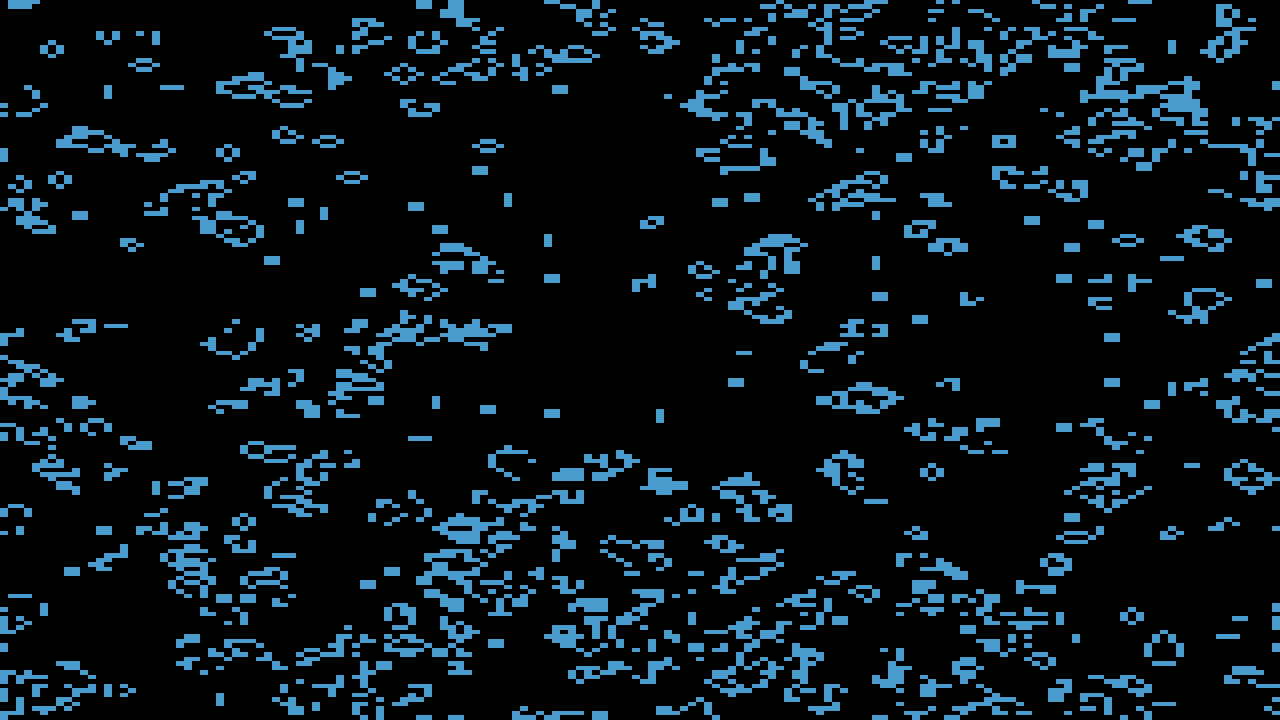
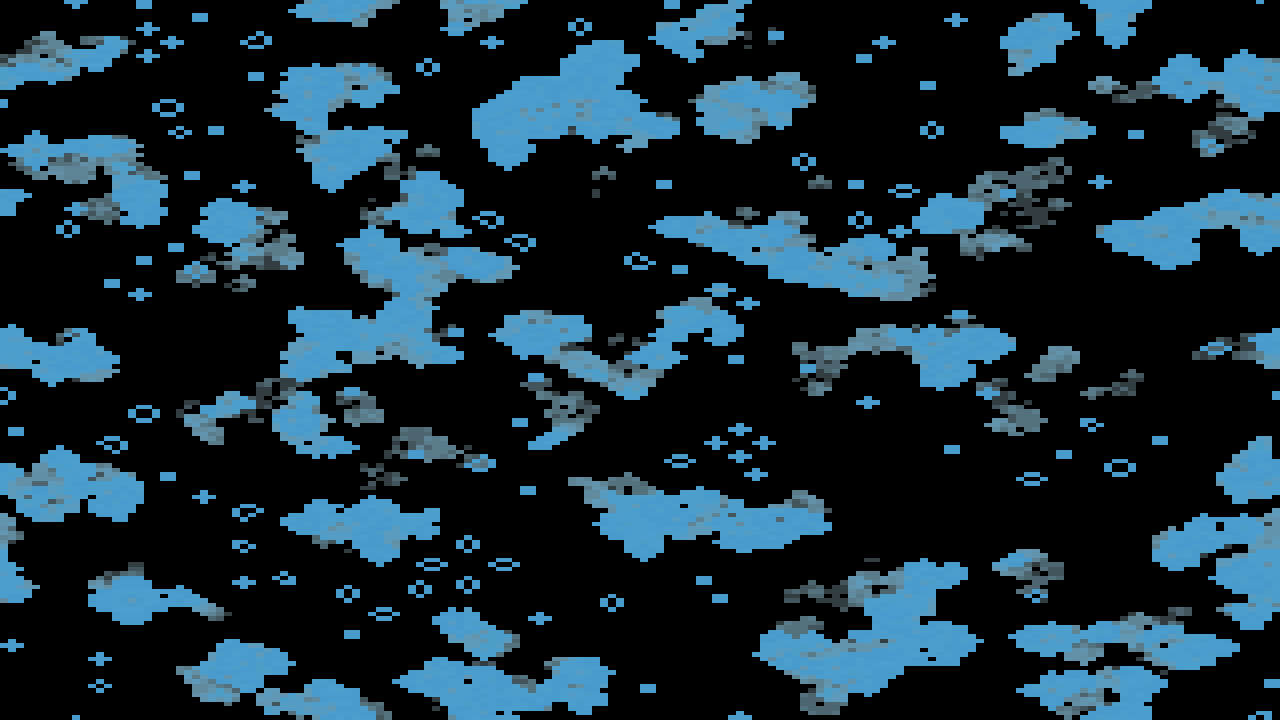
docs: the cellular system in the grammar reference, the guide and the on-device sweep
docs/presets.md gains the [cellular] table - its three keys, what the
grid being content means, the seed, step_rate, reseed and the wake, the
three families with the parameters each reads, the life_like rule as two
bitmasks with Conway written out as birth = 8, survive = 12, and both
tier caps - and a cellular row in the system table.

The guide gets one picture per family from teaching presets under
docs/examples/cellular/, with docs-shots manifest entries for the two new
ones. docs/on-device-validation.md gains the Floor and Rich caps'
measurements and a look pass over the three families.

Plan 0164 Phase 6.

diff --git a/docs/presets.md b/docs/presets.md
@@ -123,6 +123,8 @@ sample density),
 summarised [below](#the-path-table)),
 `[field]` (which closed-form world the analytic field draws, and for escape time
 its map and orbit trap — [below](#the-field-table)),
+`[cellular]` (which automaton the cellular system runs, on how large a grid, and
+whether its edges wrap — [below](#the-cellular-table)),
 `[spectrum]` (the readout's element count, layout and per-element easing —
 summarised [below](#the-spectrum-table)), `[feedback]` (how an accumulation reads
 its own past — [below](#the-feedback-table)), `[smoothing]` (per-parameter
@@ -175,6 +177,7 @@ that table is maintained alongside the presets and is the authoritative list.
 | `warp_mesh` | The previous frame, resampled through a grid with **one transform per vertex** — the only system that draws nothing of its own. |
 | `shape_collage` | Flat opaque elements on their own off-white paper, composited in painter order — the only system in which one object is genuinely *in front of* another, and the only one that draws a graphic rather than light. |
 | `analytic_field` | A fullscreen closed-form function of position from one of two families — the Chladni plate's nodal lines, or an escape-time Julia or Mandelbrot set with optional orbit traps ([below](#the-field-table)). |
+| `cellular` | A discrete cellular automaton on a grid of cells, from one of three families — Conway's Life and every birth/survival rule, Larger than Life's wide neighbourhoods, or the cyclic automaton's spirals — painted with the history of each cell ([below](#the-cellular-table)). |
 
 **There is deliberately no per-system preset count here.** A count re-drifts every time
 a preset is added and nothing fails when it does. `presets/` is the list; `ls presets/*.toml`
@@ -357,6 +360,117 @@ the point.
 
 The range that reads for each parameter, and the family it is inert on, is printed in the
 `analytic_field` table of [`presets/README.md`](../presets/README.md).
+
+### The `[cellular]` table
+
+A `cellular` preset runs a discrete cellular automaton: a square grid of cells, each generation
+every cell deciding its next state from its neighbours'. `[cellular]` picks which automaton, on how
+large a grid:
+
+```toml
+system = "cellular"
+
+[cellular]
+family = "life_like"   # "life_like" (the default), "larger_than_life" or "cyclic"
+grid   = 256           # cells per side, 16..=1024; the default is 256
+wrap   = true          # a torus (the default); false makes every cell past the border dead
+```
+
+All three keys are read once, at load, and are **not bindable**. An unknown family, or a grid
+outside `16..=1024`, is a load error. A preset with no `[cellular]` table runs `life_like` on a
+256-cell torus.
+
+**`grid` is content, not resolution.** A pattern is a fixed number of cells — a glider is five —
+so the grid decides how large every pattern looks: double it and every glider draws at half the
+size. The grid never follows the window, and it is stretched over the frame as it is, so on a wide
+window a cell is wider than it is tall.
+
+**Every cell is drawn from the seed.** The starting field, and every disc a `reseed` refills, is
+hashed from the preset's `[generator] seed` — never from a clock — so the same preset driven by the
+same music runs the same history. `seed = "random"` does **not** vary it: the automaton always uses
+the preset's declared number (`0` when it declared `"random"`).
+
+Four parameters read the same on every family:
+
+- **`step_rate`** is **generations per second**, not per frame, so the automaton runs at the same
+  speed at 30 fps and at 144. Bound to audio it speeds up and slows down with the music — and
+  because an automaton's history depends on every step before it, two runs at different rates
+  diverge for good.
+- **`reseed`** refills **one disc** of the grid (a fifth of its side in radius, at a position drawn
+  from the seed) with fresh cells, **once per rise past 0.5** — held high, it refills once, not every
+  frame. `reseed = "beat"` puts a disc on every beat; routed through a
+  [`[latch]`](#the-latch-table--arm-on-one-thing-fire-on-another) it fires on a condition of its own.
+- **`trail`** and **`age_tint`** paint history. The grid remembers, for every cell, how many
+  generations since it last changed; a cell that has just died glows and fades out over `trail`
+  generations, sliding `age_tint` of the way along the palette as it goes. `trail = "0"` draws only
+  the live cells — a binary checkerboard, which is what a raw automaton looks like and rarely what a
+  preset wants. Both are inert on `cyclic`, which has no dead cells.
+
+The three families, following
+[ADR-0180](adrs/0180-a-mathematical-world-joins-a-system-as-a-family-and-a-structural-parameter-is-held.md) —
+every parameter in the last two columns is read by **one family only** and does nothing on the
+others:
+
+| `family` | The rule | Structural | Modal |
+|---|---|---|---|
+| `life_like` | A dead cell with `k` live neighbours among its eight is born if bit `k` of `birth` is set; a live one survives if bit `k` of `survive` is | `birth`, `survive` | — |
+| `larger_than_life` | The same, over a square of side `2 × radius + 1`, with birth and survival as ranges of how full that square is | `radius` | `birth_lo`, `birth_hi`, `survive_lo`, `survive_hi` |
+| `cyclic` | Each cell holds one of `states` colours and advances to the next one round the cycle when at least `threshold` of its eight neighbours already hold it | `states`, `threshold` | — |
+
+#### `life_like`: a rule is two bitmasks
+
+A rule in Life's space is written `B…/S…`: the neighbour counts that bring a dead cell to life, and
+the counts that keep a live one alive. `birth` and `survive` are those two lists as **bitmasks over
+the counts 0 to 8** — add `2^k` for every count `k` in the list:
+
+| Rule | `B` list | `birth` | `S` list | `survive` |
+|---|---|---|---|---|
+| **Conway's Life, `B3/S23`** | 3 | `8` (= 2³) | 2, 3 | `12` (= 2² + 2³) |
+| HighLife, `B36/S23` | 3, 6 | `72` (= 8 + 64) | 2, 3 | `12` |
+| Seeds, `B2/S` | 2 | `4` | none | `0` |
+| Day & Night, `B3678/S34678` | 3, 6, 7, 8 | `456` | 3, 4, 6, 7, 8 | `472` |
+
+So **Conway's Life is `birth = "8"`, `survive = "12"`** — the defaults. Both are whole numbers
+from `0` to `511`, rounded before the automaton sees them.
+
+#### `larger_than_life`: a rule is two ranges over a wider square
+
+`radius` sets the square each cell reads: side `2 × radius + 1`, the cell itself left out, so
+radius 5 reads 120 neighbours. `birth_lo`..`birth_hi` and `survive_lo`..`survive_hi` are **fractions
+of that square** that must be live, inclusive at both ends — so a rule keeps its meaning when you
+change the radius. At radius 1 with fractions that land on whole counts this *is* `life_like`:
+Conway is `birth_lo = birth_hi = "0.375"` (3 of 8) and `survive_lo = "0.25"`, `survive_hi = "0.375"`.
+
+Above radius 1 the rules grow blobs and bugs that keep travelling where a radius-1 rule settles
+into still lifes. The defaults — radius 5, births at `0.28`..`0.385`, survival at `0.26`..`0.47` —
+are one such rule, and a sensitive one: a single neighbour count off either end of a range can be
+the difference between a field that keeps moving and one that freezes.
+
+#### `cyclic`: a rule is a cycle
+
+Every cell is one of `states` colours, and advances to the next one round the cycle when at least
+`threshold` of its eight neighbours already hold it. From noise this organizes, within a few
+hundred generations, into **interlocking rotating spirals**; the defaults — 3 colours, threshold 3 —
+get there fastest. There are no dead cells: every cell is lit, at palette position
+`state / states`, so the cycle is laid round the palette once and a spiral's arms are the palette in
+order. `hue` rotates it, as on every system.
+
+#### Holding a rule, and the quality tier
+
+Every structural parameter — `birth`, `survive`, `radius`, `states`, `threshold` — is rounded to a
+whole number, and bound to audio it re-picks the rule on every frame. Bind it through
+[`[hold]`](#the-hold-table--re-sample-on-a-musical-edge-hold-in-between) so it changes on the beat or
+the bar instead. Stepping `states` down is safe: a cell holding a colour past the new cycle is read
+round it and written back inside it on the next generation.
+
+**`grid` and `radius` are capped by the quality tier**, because both change what is drawn: the
+Floor tier allows a 512-cell grid and radius 6, the Rich tier 1024 and 10. A preset asking within
+the Floor caps runs identically on both. One asking for more runs at the cap and **says so** — the
+standalone prints what was asked and what it runs at, the same way it reports an iteration cap or a
+tier demotion. Author against the Floor caps.
+
+The range that reads for each parameter, and the families it is inert on, is printed in the
+`cellular` table of [`presets/README.md`](../presets/README.md).
 
 ### The `[path]` table
 
@@ -1475,9 +1589,9 @@ that merely waste a line. Neither ever crashes a running visual (NFR 10).
 - An expression that fails to compile — an unknown identifier, a bad number, a
   wrong argument count, an unbalanced parenthesis, a stray character.
 - An invalid structural table (`[curve]`, `[generator]`, `[particles]`, `[path]`,
-  `[spectrum]`, `[field]`, `[palette]`, `[smoothing]`, `[latch]`) - including a `[path] d`
-  the parser refuses, which names the character offset it stopped at, and a `[field] map` or
-  `trap` on a family that has no orbit.
+  `[spectrum]`, `[field]`, `[cellular]`, `[palette]`, `[smoothing]`, `[latch]`) - including a
+  `[path] d` the parser refuses, which names the character offset it stopped at, a `[field] map`
+  or `trap` on a family that has no orbit, and a `[cellular] grid` outside `16..=1024`.
 
 **Warnings — the preset still loads and renders:**
 

diff --git a/docs/preset-guide.md b/docs/preset-guide.md
@@ -66,7 +66,7 @@ Four things are worth naming, because they are the whole model:
 
 Some systems also take a **structural table** — `[curve]` here, `[generator]` for the two generator
 systems, `[particles]` for the attractor, `[spectrum]` for the readout, `[field]` for the analytic
-field. Those are declarative
+field, `[cellular]` for the automaton. Those are declarative
 configuration read once when the preset loads, **not** expressions: they choose *which figure*, and
 the params then animate it.
 
@@ -77,8 +77,9 @@ the params then animate it.
 One image each, captured under the same stimulus at the same moment in the clip, so they are
 comparable. Each is a real shipped preset — the file name is under the picture — except where a
 system or a family has none yet, and there the picture renders a teaching preset instead:
-`parametric_curve` adds four more, one per curve family beyond the rose, and `analytic_field` ships
-no preset at all, so both of its pictures are teaching presets. The **parameter reference** — every parameter of every
+`parametric_curve` adds four more, one per curve family beyond the rose, and `analytic_field` and
+`cellular` ship no preset at all, so all five of their pictures are teaching presets. The
+**parameter reference** — every parameter of every
 system, with its default, the range that reads and what it does — is
 [`../presets/README.md`](../presets/README.md).
 
@@ -337,6 +338,49 @@ and stained-glass cells come from.
 **Reach for this when** the look is mathematics you can name: cymatic figures, fractal boundaries,
 orbit-trap filigree. Which parameter belongs to which family, and what the quality tier does to
 `iterations`, is the [`[field]` table](presets.md#the-field-table) in the grammar reference.
+
+### `cellular`
+
+![Conway's Life on a black ground: pale blue clouds of recently active cells with darker, fading
+edges, scattered with small still lifes and blinkers drawn as rings and crosses of single
+cells](images/gallery/cellular.png)
+
+*`family = "life_like"` — [`docs/examples/cellular/life_like.toml`](examples/cellular/life_like.toml)*
+
+A **cellular automaton**: a square grid of cells, every generation each cell deciding its next state
+from its neighbours'. The grid remembers — every cell carries how long ago it last changed — so a
+cell that has just died keeps glowing and fades out over `trail` generations. That wake is what
+turns a blinking checkerboard into something with history in it. `step_rate` is in generations per
+second, which makes it the lever for the music: bind it to the bass and the automaton runs faster
+when the bass does.
+
+The picture above is **Conway's Life**, `birth = "8"`, `survive = "12"` — a rule written as two
+bitmasks over the neighbour counts, which the [`[cellular]` table](presets.md#the-cellular-table)
+spells out. Left to itself Life settles into still lifes and blinkers, so reach for `reseed` — a
+disc of fresh cells on every rise, a beat or a latch — to keep it fed.
+
+![Blobs and short trails in cream and amber on black, each travelling across the frame with a
+dark brown wake behind it, a few small round cells drifting between them](images/cellular/larger_than_life.png)
+
+*`family = "larger_than_life"` — [`docs/examples/cellular/larger_than_life.toml`](examples/cellular/larger_than_life.toml)*
+
+**Larger than Life** reads a wide square of neighbours rather than eight, with birth and survival as
+ranges of how full it is. Above radius 1 its rules grow blobs and bugs that keep travelling where
+Life would settle — and the ember wake here is the path each one took.
+
+![Interlocking spirals of three flat colours — purple, turquoise and sea green — covering the
+whole frame, their arms curling round dozens of small cores](images/cellular/cyclic.png)
+
+*`family = "cyclic"` — [`docs/examples/cellular/cyclic.toml`](examples/cellular/cyclic.toml)*
+
+The **cyclic** automaton: every cell is one of `states` colours and advances to the next when enough
+neighbours already have. From noise it organizes itself, within a few hundred generations, into
+rotating spirals, and a cell's colour is simply its place in the cycle laid round the palette.
+
+**Reach for this when** the look is growth, colonies, waves or spirals that build up over time and
+hold their history. The grid is a count of cells, not a resolution — a larger grid draws every
+pattern smaller — and the families' own parameters are in the
+[`[cellular]` table](presets.md#the-cellular-table).
 
 ---
 

diff --git a/docs/on-device-validation.md b/docs/on-device-validation.md
@@ -188,6 +188,28 @@ footprint so the vendor spread is on record.
       *looks like* on this tier, not just how dense it is, so it routes to `architect` with the
       number rather than being quietly lowered. _(Plan 0163 Phase 4 set the cap without target
       hardware; this is where the measurement comes from.)_
+- [ ] **The cellular system at the Floor caps, on the low-end box, 1080p.** Plan 0164 added
+      `cellular`, whose cost is one pass per generation over the grid — two for
+      `larger_than_life`, whose neighbourhood is summed as a row pass and a column sum — and capped
+      it per tier with `TierConfig::FLOOR.cellular_grid` = **512** and `cellular_radius` = **6**,
+      both from **arithmetic, not a measurement** (their doc comments in `core/src/render/tier.rs`
+      carry it). No shipped preset draws the system yet, so point `RLX_PRESET_DIR` at
+      `docs/examples/cellular/` and load **`larger_than_life.toml`**; then write the heaviest frame
+      the caps allow beside it — the same file with `grid = 512` in its `[cellular]` table,
+      `radius = "6"` and `step_rate = "60"`. Overlay on (`F3`), report **(a)** whether fps holds
+      ≥ 60 @ 1080p on both, and **(b)** the p99. Load **`life_like.toml`** and **`cyclic.toml`** too,
+      which read eight neighbours and should cost a fraction of it. **If the heavy frame misses, the
+      levers are `cellular_grid` and `cellular_radius`** — and lowering either changes what a
+      preset *looks like* on this tier (a smaller grid draws every pattern larger; a smaller radius
+      runs a different rule), so it routes to `architect` with the numbers. _(Plan 0164 Phases 3
+      and 5 set both caps without target hardware.)_
+- [ ] **The cellular system's look, any box.** Load the three files in `docs/examples/cellular/`
+      and say, for each, whether it reads as structure or as noise: `life_like.toml` for whether
+      the fading wake carries the history, `larger_than_life.toml` for whether its blobs visibly
+      travel, `cyclic.toml` for whether the spirals are visible as spirals and rotate. Also run one
+      **same-system dissolve** between two cellular presets: a stateful scene steps twice per frame
+      for the dissolve's duration (design-backlog 0142), and on this system that shows as the
+      automaton briefly running at double speed — say whether it reads as a defect.
 - [ ] **Frame-time p99 with the debug overlay on, any box.** Plan 0030 put the three post stages
       behind a `PostStage` trait, so a rendered frame now costs ~4 vtable calls plus ~4 `TextureView`
       Arc bumps it did not before. Expected to be unmeasurable against a render pass, but it was
@@ -383,6 +405,15 @@ not run at the plan's close, so the rich tier currently ships numbers nobody has
       demotion and the clamp that follows it; say whether that change reads as a defect on screen.
       **If it does, that is an `architect` call**, not a constant to lower. _(Plan 0163's own risk
       register names this as worth watching on the on-device pass.)_
+- [ ] **The cellular system at `Rich`'s caps, on the discrete GPU, native fullscreen.**
+      `TierConfig::RICH.cellular_grid` = **1024** and `cellular_radius` = **10**, the tops of what
+      the loader and the parameter accept, provisional like every field above. Load the heavy
+      `larger_than_life` frame from the low-end item above with `grid = 1024`, `radius = "10"` and
+      `--tier rich`, and report **(a)** whether it holds the display's refresh rate and **(b)** the
+      p99. Then let it run **unpinned** on a frame that misses: a demotion to Floor rebuilds the
+      scene at the Floor caps, so the grid halves and the radius drops to 6 — **content, not
+      density**. Report what the standalone prints at the demotion and after it, and say whether
+      the change reads as a defect on screen. **If it does, that is an `architect` call.**
 
 ## Runnable now — the foobar2000 component's clean-profile install (Plan 0102 Phase 5)
 

diff --git a/docs/plans/0164-the-cellular-system.md b/docs/plans/0164-the-cellular-system.md
@@ -256,8 +256,8 @@ pub struct CellularConfig {
 | 2 — the age channel | dev | done | 677ab2b |
 | 3 — `larger_than_life` | dev | done | 4fcb75b, 1d74d0b |
 | 4 — `cyclic` | dev | done | 8aed06f |
-| 5 — tier cap, golden, determinism | dev | done | committed with this row |
-| 6 — documentation and the reference | dev | not started | |
+| 5 — tier cap, golden, determinism | dev | done | 1dd4b0f |
+| 6 — documentation and the reference | dev | done | committed with this row |
 
 ### Notes
 
@@ -359,6 +359,22 @@ pub struct CellularConfig {
   and another seed as controls) and on the field's own texels
   (`the_field_is_identical_after_a_thousand_generations_for_every_family`, in
   `core/src/render/scenes/cellular/tests.rs`, outside the phase's file list).
+- Phase 6, `presets/README.md` was regenerated by Phases 1-5 as each added parameters (the reference
+  test fails on a stale block), so this phase has no edit of its own there; its Structural/Modal
+  grouping and per-family annotation are in the tree from Phase 4's regeneration.
+- Phase 6, the guide's three pictures are the gallery slot `docs/images/gallery/cellular.png`
+  (`life_like`, re-rendered here with the wake; its teaching preset lost its beat `reseed`, which
+  flooded the frame with discs at 110 BPM) and two new `docs/images/cellular/*.png`, each rendered
+  from a teaching preset under `docs/examples/cellular/` with its manifest entry's exact `shot`
+  line; `scripts/docs-shots.mjs` gained the two entries. Outside the phase's file list:
+  `docs/examples/cellular/` and `scripts/docs-shots.mjs`.
+- Phase 6, `docs/on-device-validation.md` gained three items: the Floor caps on the low-end box,
+  the Rich caps on the discrete GPU, and a look pass over the three teaching presets that includes
+  one same-system dissolve for backlog 0142's double step.
+- Not touched, noticed: `docs/capturing.md` still lists "all twelve" systems for `--report
+  family=` (0163's review flagged the same line for `analytic_field`); `docs/presets.md`'s
+  "one or more presets for every built-in system" line is false for `analytic_field` and
+  `cellular`; `core/src/render/scenes/common.rs` still says "Twelve systems".
 
 ### Close triggers
 
